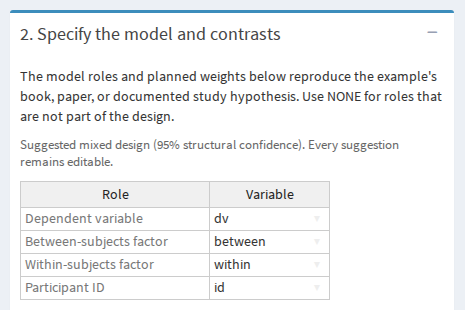
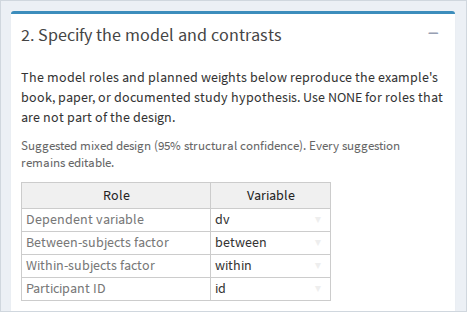
Expand README GUI walkthrough

diff --git a/README.md b/README.md
@@ -206,6 +206,12 @@ and browser-only webR interfaces load Rosenthal et al.’s Table 5.3
 mixed-design example with its linear between- and within-subjects
 contrasts.
 
+<p>
+
+<a href="man/figures/cofad-gui-data-upload.png"><img src="man/figures/cofad-gui-data-upload.png" width="230" alt="Controls for uploading a CSV or SPSS data file"></a>
+<a href="man/figures/cofad-gui-example-data.png"><img src="man/figures/cofad-gui-example-data.png" width="230" alt="Categorized example-data selector"></a>
+</p>
+
 cofad automatically examines replication and nesting to suggest the
 dependent variable, between-subjects factor, within-subjects factor, and
 participant ID. Every suggestion remains editable in the model table.
@@ -215,9 +221,7 @@ correlations alone. Packaged examples therefore use the roles and
 planned weights documented in their books or papers, while still
 displaying the structural-detection result.
 
-[![Automatic design detection showing the inferred roles for the default
-mixed
-example](man/figures/cofad-auto-detection.png)](https://cofad.titz.science)
+<a href="https://cofad.titz.science"><img src="man/figures/cofad-auto-detection.png" width="558" alt="Automatic design detection showing the inferred roles for the default mixed example"></a>
 
 If detection is inconclusive or cannot run, the app does not force a
 structure. It retains a suggested dependent variable where possible,
@@ -225,12 +229,7 @@ leaves uncertain roles as `NONE`, and asks you to choose the design
 manually in the same table. This fallback is available for between-,
 within-, and mixed-subjects designs.
 
-<figure>
-<img src="man/figures/cofad-manual-design.png"
-alt="Inconclusive automatic detection showing unresolved roles for manual selection" />
-<figcaption aria-hidden="true">Inconclusive automatic detection showing
-unresolved roles for manual selection</figcaption>
-</figure>
+<img src="man/figures/cofad-manual-design.png" width="438" alt="Inconclusive automatic detection showing unresolved roles for manual selection">
 
 You can inspect the automatic suggestion from R with
 `detect_design(your_data)`. It reports structural diagnostics and a
@@ -244,6 +243,13 @@ whether to test the **Between × within contrast** or the **Within
 contrast averaged across groups**. New mixed designs default to the
 former, as in Rosenthal et al.’s Table 5.3; packaged examples retain the
 analysis used by their source.
+
+<p>
+
+<a href="man/figures/cofad-gui-analysis-choices.png"><img src="man/figures/cofad-gui-analysis-choices.png" width="325" alt="Controls for competing contrasts and the mixed-design contrast to test"></a>
+<a href="man/figures/cofad-gui-between-contrast.png"><img src="man/figures/cofad-gui-between-contrast.png" width="300" alt="Between-subjects contrast-weight table"></a>
+<a href="man/figures/cofad-gui-within-contrast.png"><img src="man/figures/cofad-gui-within-contrast.png" width="300" alt="Within-subjects contrast-weight table"></a>
+</p>
 
 The default example comes from Rosenthal et al. (2000) (Table 5.3). The
 cognitive ability of nine children belonging to different age groups
@@ -273,6 +279,13 @@ paper-ready report is copyable, while the F table can be exported as
 aligned plain text, rich HTML, or DOCX; numeric table columns are
 right-aligned. The Help and citation panel beneath the model contains
 the package references, README, and GitHub issue tracker.
+
+<p>
+
+<a href="man/figures/cofad-gui-report-output.png"><img src="man/figures/cofad-gui-report-output.png" width="300" alt="Copyable paper-ready report"></a>
+<a href="man/figures/cofad-gui-f-table-output.png"><img src="man/figures/cofad-gui-f-table-output.png" width="300" alt="Variance-decomposition F table and export controls"></a>
+<a href="man/figures/cofad-gui-variance-output.png"><img src="man/figures/cofad-gui-variance-output.png" width="300" alt="Interactive partition of total variation"></a>
+</p>
 
 A mixed design is ideal for trying the cofad app. You can construct a
 separate within-subjects model by setting the between-subjects factor to
